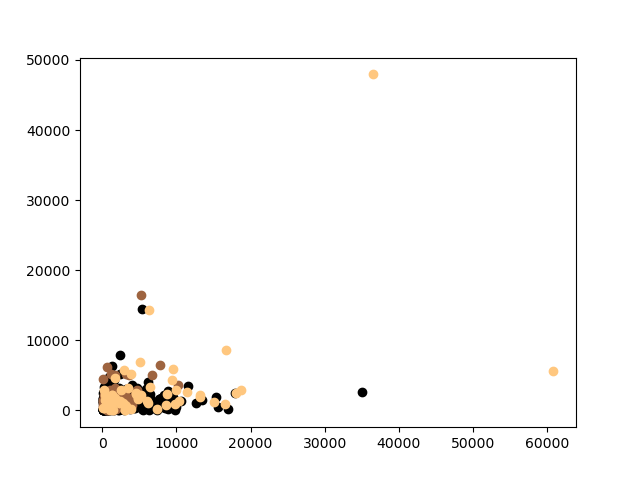
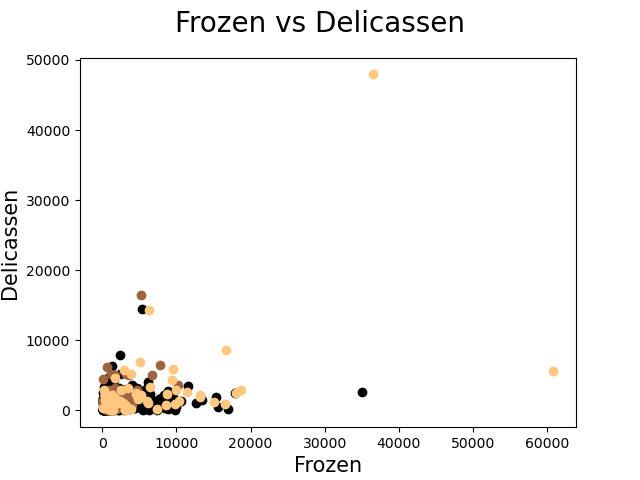
added axis titles

Changed region(s): [[0.25, 0.0, 0.75, 0.0625], [0.0, 0.375, 0.0312, 0.625], [0.4688, 0.9375, 0.5625, 1.0]]

diff --git a/Clustering.py b/Clustering.py
@@ -68,7 +68,9 @@ def plotKmeans(X, clusters, k):
         for i in np.unique(clusters):
             c = "Cluster:" + str(i+1)
             plt.scatter(Xsample.iloc[clusters==i,0],Xsample.iloc[clusters==i,1], color=next(colours),label=c)
-
+        plt.suptitle(str(pair[0] + " vs " + pair[1]),fontsize=20)
+        plt.xlabel(pair[0], fontsize=15)
+        plt.ylabel(pair[1], fontsize=15)
         name = (pair[0] + " " + pair[1] + ".png")
         plt.savefig(name)
         plt.clf()
@@ -91,28 +93,28 @@ def betweenClusterScore(fitter):
     return dists
 
 
-def withinClusterScore(X,clusterLabels,fitter):
-    '''
-    Calculates score within cluster
-    i.e., sum of squared euclidean distances to cluster centre 
+# def withinClusterScore(X,clusterLabels,fitter):
+#     '''
+#     Calculates score within cluster
+#     i.e., sum of squared euclidean distances to cluster centre 
 
-    Args: X -- Dataset
-          clusterLabels -- Cluster labels for each dataset instance
-          fitter -- trained K-means model
+#     Args: X -- Dataset
+#           clusterLabels -- Cluster labels for each dataset instance
+#           fitter -- trained K-means model
 
-    Returns: dists -- Array of k within-cluster distances
-    '''
+#     Returns: dists -- Array of k within-cluster distances
+#     '''
 
-    k = fitter.n_clusters
-    wc = []
-    for i in range(k):
-        dists = 0
-        clustFeats = X.loc[clusterLabels == i] # get features in cluster i
-        for row in clustFeats.iterrows():
-            dist = np.linalg.norm(fitter.cluster_centers_[i] - row[1].values)
-            dists += dist**2
-        wc.append(dists)
-    return dists
+#     k = fitter.n_clusters
+#     wc = []
+#     for i in range(k):
+#         dists = 0
+#         clustFeats = X.loc[clusterLabels == i] # get features in cluster i
+#         for row in clustFeats.iterrows():
+#             dist = np.linalg.norm(fitter.cluster_centers_[i] - row[1].values)
+#             dists += dist**2
+#         wc.append(dists)
+#     return dists
 
 
 
@@ -151,7 +153,8 @@ BCs,WCs,ratios = [],[],[]
 for i in kSet:
     fitter, clusterLabels = kmeans(customerData,i)
     BC = betweenClusterScore(fitter)
-    WC = withinClusterScore(customerData,clusterLabels,fitter)
+    # WC = withinClusterScore(customerData,clusterLabels,fitter)
+    WC = fitter.inertia_
     BCs.append(BC)
     WCs.append(WC)
     ratios.append(BC/WC)
